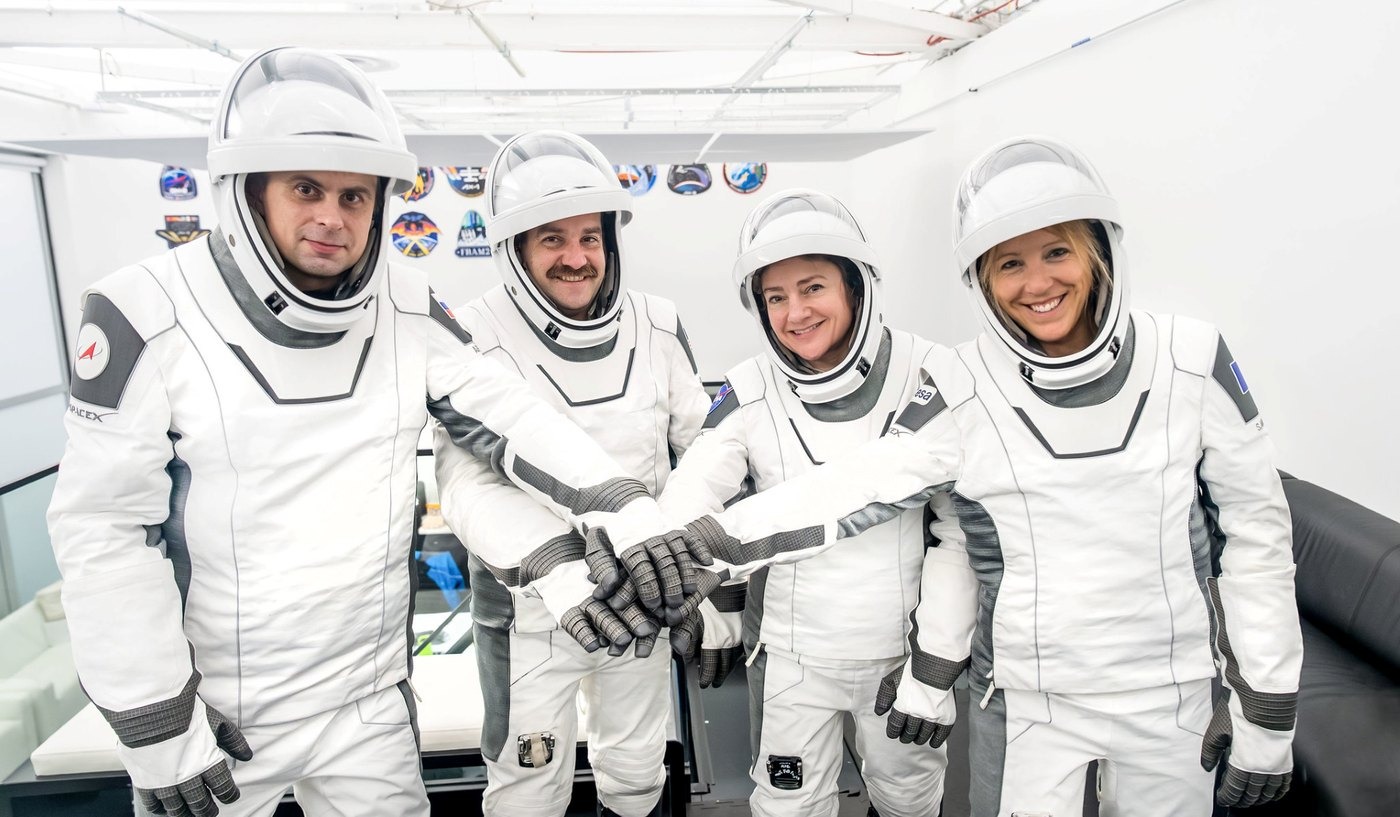
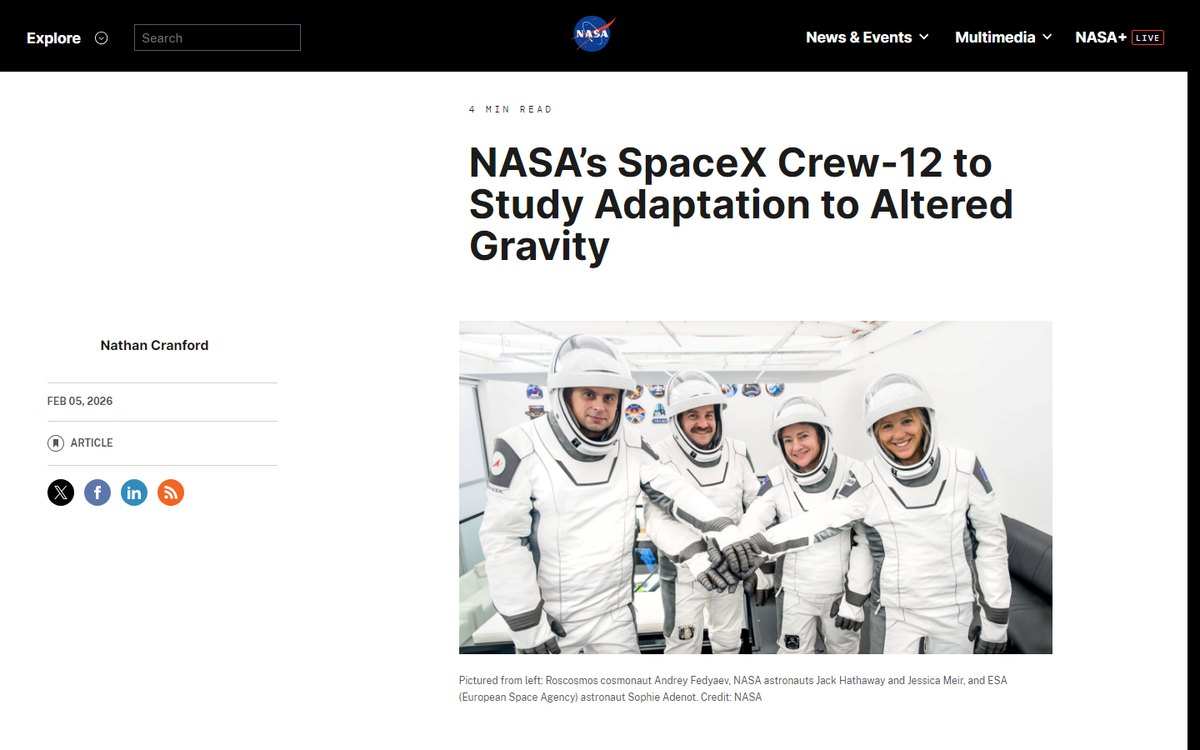
feat(research): use real full-page screenshots of each cited source
Each slide previously showed a crop of the page's og:image, and three slides showed a visual that was not even from the record they cited: TechPort showed only the NASA logo, and both NTRS slides reused an unrelated NASA page image.

- every slide now carries a 1440x900 headless-Chrome screenshot of the page it cites, shipped at 1200px in assets/evidence/ (1.03 MB total)

- the TechPort capture shows the real 'Sensorimotor Countermeasures' project page, including the 'Unobtrusive Monitoring Tools' and markerless motion capture objectives the slide cites

- the NTRS captures show the citation records themselves, including 20240008210's 'no available downloads' state

- nothing faked or retouched beyond resizing; the old og:image files are removed

- verified: 8/8 referenced files present, all modules syntax-clean, 93/93 tests pass

diff --git a/src/ui/labs.js b/src/ui/labs.js
@@ -1343,27 +1343,28 @@ export function mountResearchSection() {
 }
 
 /* ── Official NASA visual evidence carousel ────────────────
-   Each slide's image is the cited page's OWN official lead visual, shipped in
-   assets/evidence/ instead of hotlinked — hotlinking broke whenever NASA's CDN
-   moved a file. Slide 8 uses the first page rendered from the NTRS poster its
-   citation links to (assets/evidence/ntrs-20230014013-paper.jpg). Nothing here
-   is artwork generated by this project. Each slide is paired with the exact
-   claim it supports and an outbound source link. The carousel is deliberately a
-   citation aid, never evidence of NASA endorsement. */
+   Each slide's image is a FULL-PAGE SCREENSHOT of the page it cites, taken with
+   headless Chrome at 1440x900 and shipped at 1200px in assets/evidence/ — so the
+   slide shows the page's own heading, lead visual and body text, and the
+   carousel no longer breaks when NASA's CDN moves a file. Nothing here is
+   artwork generated by this project, and no screenshot is faked or retouched
+   beyond resizing. Each slide is paired with the exact claim it supports and an
+   outbound source link. The carousel is deliberately a citation aid, never
+   evidence of NASA endorsement. */
 function mountResearchEvidence() {
   const root = $('#researchEvidence');
   if (!root) return;
   const slides = [
     {
       source: 'nasaTechPort157166',
-      image: './assets/evidence/techport.png',
+      image: './assets/evidence/techport-countermeasures.jpg',
       kicker: 'NASA TECHPORT',
       connection: 'NASA documents a need for unobtrusive monitoring tools, operational assessments and sensorimotor performance metrics after gravity transitions.',
       finding: 'NASA TechPort: the Head/Body Assessments work aims to quantify sensorimotor adaptation following gravitational transitions and define performance metrics.',
     },
     {
       source: 'ntrsSensorimotorCountermeasures',
-      image: './assets/evidence/human-performance.jpg',
+      image: './assets/evidence/ntrs-20240008210.jpg',
       kicker: 'NASA NTRS · 2024',
       connection: 'The public NASA technical record describes countermeasures and assessment tools for neurovestibular effects across gravity transitions.',
       finding: 'NTRS record: exploration missions include multiple gravity transitions that affect neurovestibular and sensorimotor capabilities.',
@@ -1405,7 +1406,7 @@ function mountResearchEvidence() {
     },
     {
       source: 'cipherVestibularHealth',
-      image: './assets/evidence/ntrs-20230014013-paper.jpg',
+      image: './assets/evidence/ntrs-20230014013.jpg',
       kicker: 'NASA NTRS · 2023',
       connection: 'NASA’s Neuro-Vestibular Examination records eye, head and body movement repeatedly across the mission—our camera view is experimental and not that clinical examination.',
       finding: 'NTRS describes recordings of eye, head and body movement plus motion-perception reports; it notes modern computer vision and iris-recognition methods.',
